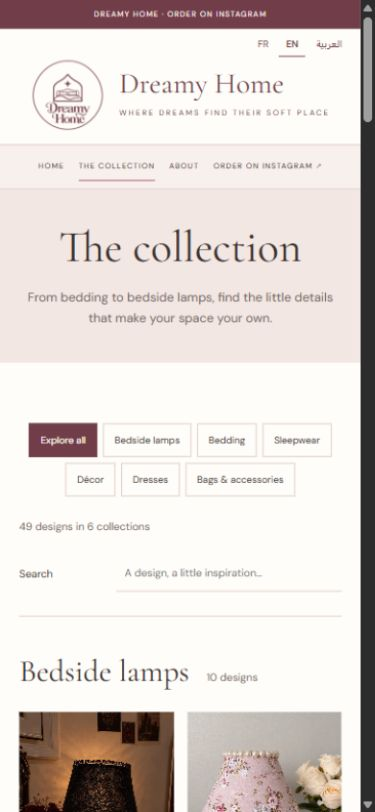
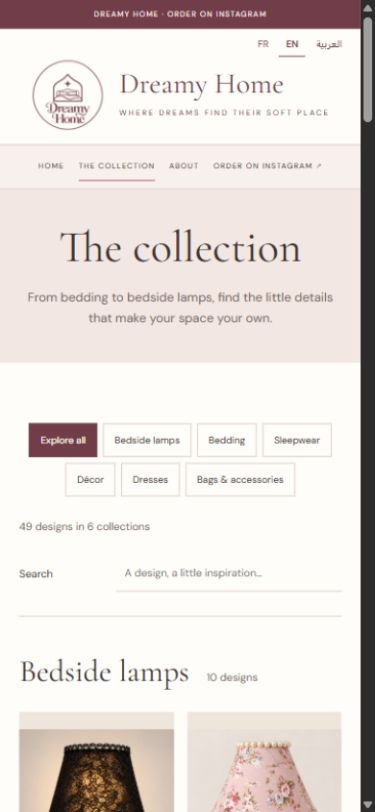
Refresh portfolio for watercolor hero and swipeable shop galleries

Changed region(s): [[0.0293, 0.8621, 0.4693, 1.0], [0.4987, 0.8621, 0.9093, 1.0]]

diff --git a/src/lib/portfolio.ts b/src/lib/portfolio.ts
@@ -17,7 +17,7 @@ import cafe from '../assets/portfolio/crumb-and-cup.jpg';
 // Leave these blank until the owner supplies verified contact details.
 export const contact = { whatsapp: '', email: '', instagram: 'https://www.instagram.com/safaawanour/' };
 export const projects = [
- { slug: 'dreamy-home', name: 'Dreamy Home', type: 'Boutique website project', category: 'Home & lifestyle / Boutique', image: dreamyHome, color: 'rose', summary: 'A romantic boutique website in French, English and Arabic for bedding, decorative lamps, sleepwear and home accessories, with orders through Instagram.', demoPath: 'demos/dreamy-home/', stack: ['HTML', 'CSS', 'JavaScript'], sections: [['Context', 'A website prepared for Dreamy Home from its Instagram product photography, the supplied rose-pink logo and a boutique layout reference.'], ['Design', 'Ivory, blush and rose frame product photography, Cormorant Garamond headings and a transparent bedroom emblem. Scalloped floral category portraits and a muted rose logo bring the boutique reference to life. Six collections organise bedside lamps, bedding, sleepwear, décor, dresses and accessories.'], ['Development', 'A responsive landing page, searchable and filterable collection, individual product views and About page, with French, English and right-to-left Arabic versions. The catalogue brings together 49 designs with image galleries, search, category filters and prices in Algerian dinars. Ordering links lead to Instagram for options, stock and delivery confirmation.'], ['Result', 'A complete static boutique website published as a portfolio preview. No online checkout or payments are collected.']] },
+ { slug: 'dreamy-home', name: 'Dreamy Home', type: 'Boutique website project', category: 'Home & lifestyle / Boutique', image: dreamyHome, color: 'rose', summary: 'A romantic boutique website in French, English and Arabic for bedding, decorative lamps, sleepwear and home accessories, with orders through Instagram.', demoPath: 'demos/dreamy-home/', stack: ['HTML', 'CSS', 'JavaScript'], sections: [['Context', 'A website prepared for Dreamy Home from its Instagram product photography, the supplied rose-pink logo and a boutique layout reference.'], ['Design', 'Ivory, blush and rose frame product photography, Cormorant Garamond headings and a transparent bedroom emblem. A watercolor hero blends bedding, flowers and a glowing lamp around editable typography. Scalloped floral category portraits and a muted rose logo carry the romantic style throughout. Six collections organise bedside lamps, bedding, sleepwear, décor, dresses and accessories.'], ['Development', 'A responsive landing page, searchable and filterable collection, individual product views and About page, with French, English and right-to-left Arabic versions. The catalogue brings together 49 designs with swipeable galleries pairing product portraits with original styled photos, search, category filters and prices in Algerian dinars. Ordering links lead to Instagram for options, stock and delivery confirmation.'], ['Result', 'A complete static boutique website published as a portfolio preview. No online checkout or payments are collected.']] },
 
  { slug: 'thiziri', name: 'Thiziri', type: 'Personal app & website project', category: 'Faith / Daily adhkar', image: thiziri, color: 'sage', summary: 'A calm home for daily adhkar, with a free, ad-free Android app and a multilingual web reader.', demoPath: 'thiziri/', stack: ['HTML', 'CSS', 'JavaScript', 'Android'], sections: [['Context', 'A personal project bringing daily adhkar into a free, ad-free Android app and a companion website. The landing page introduces Thiziri and gives visitors a direct route to the web reader.'], ['Design', 'A crescent calligraphy logo, soft green tones and generous space establish a quiet visual identity. Arabic text stays central, with English and French meanings and layouts adapted to smaller screens.'], ['Development', 'The companion web reader includes adhkar collections, recitation counters, favourites and controls for language, theme and text size. The website also provides separate web and Android privacy information.']] },
  { slug: 'serenas-sanctuary', name: 'Serena’s Sanctuary', type: 'Client website project', category: 'Wellbeing / Health coaching', image: serena, color: 'rose', summary: 'A warm, faith-rooted health coaching website for Muslim mothers, with a clear path to a free discovery call.', demoPath: 'serenassactuary/', stack: ['HTML', 'CSS', 'JavaScript'], sections: [['Context', 'A client website developed from Serena’s Canva draft, questionnaire, supplied logo, colours and coaching photograph.'], ['Design', 'Cream, blush and pale lavender backgrounds pair with olive accents and Lora serif headings. Personal photography and gentle, readable layouts centre Serena’s voice. The homepage introduces her approach, packages and FAQs, with a separate About page and direct Carepatron booking links. Mobile visitors have a floating booking button beside back-to-top. The existing client logo is retained; the newsletter currently uses an email request.']] },
@@ -149,6 +149,7 @@ export const projects = [
     ],
   },
 ];
+
 
 
 
